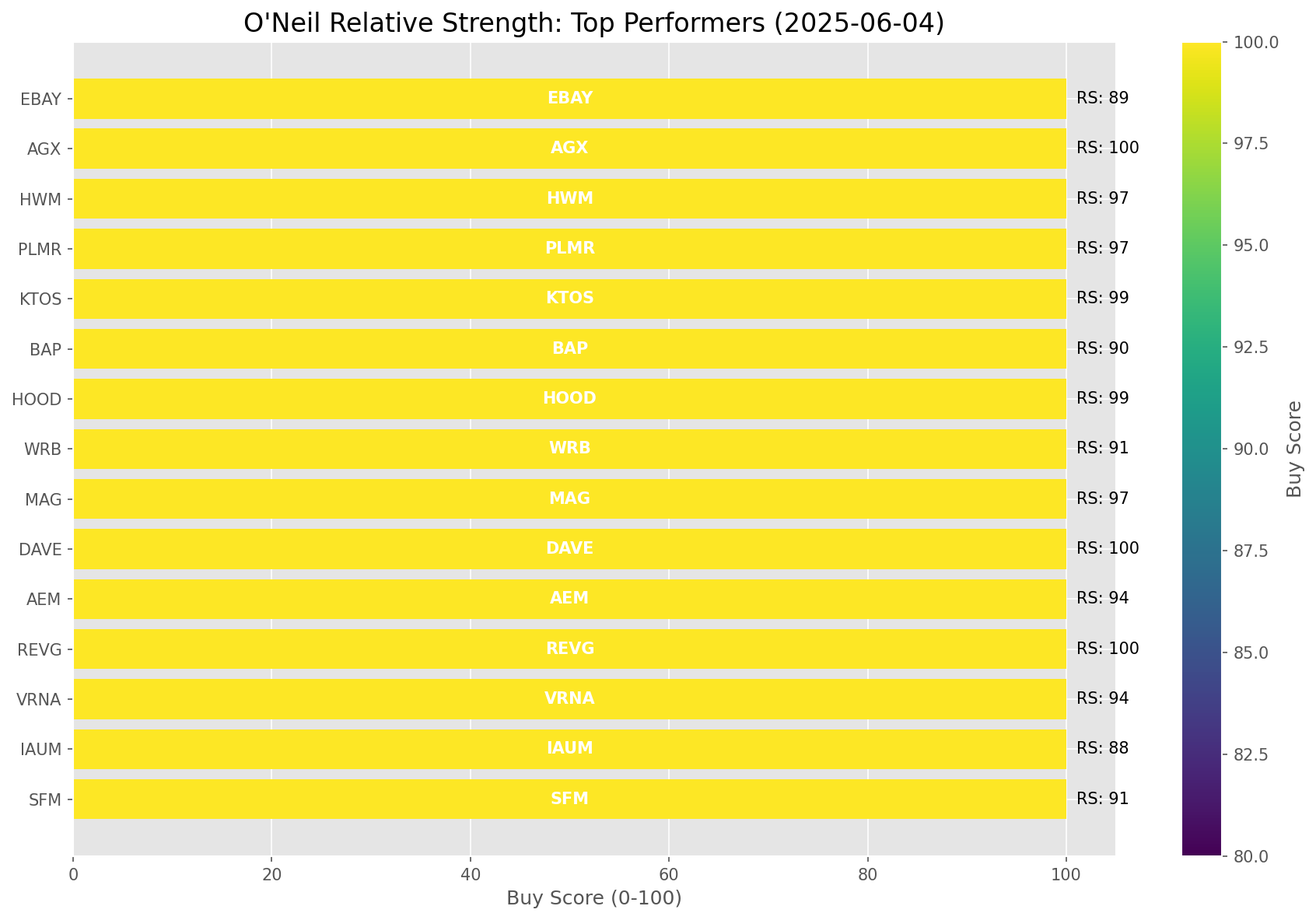
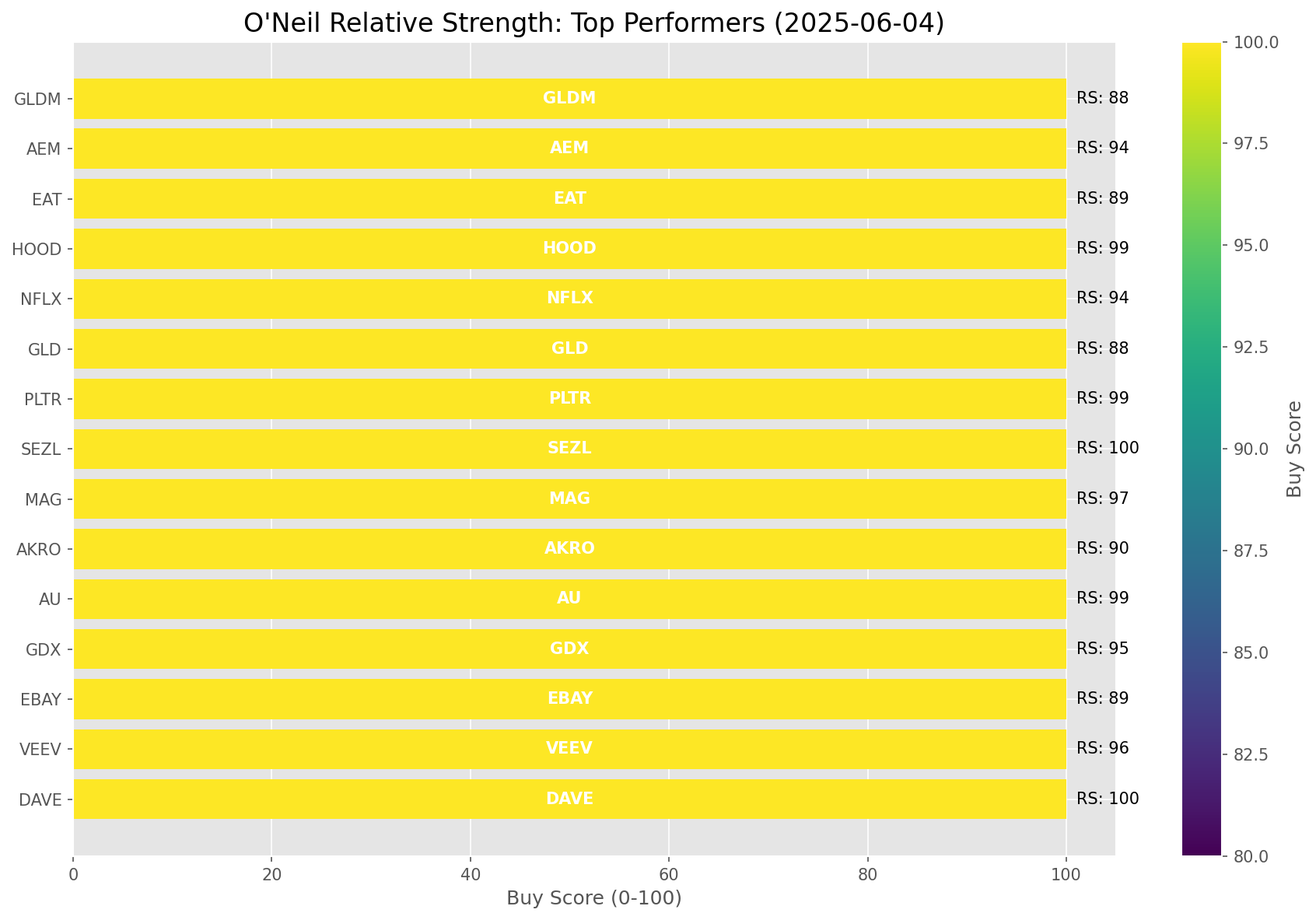
Add market report for 2025-06-04

diff --git a/oneil_relative_strength_report_2025-06-04.md b/oneil_relative_strength_report_2025-06-04.md
@@ -57,8 +57,8 @@ Based on William O'Neil's Relative Strength Methodology
 | [PAVE](https://www.tradingview.com/chart/?symbol=PAVE) | 88.5 | 77.0 | 7.82% | 10d ✓, 50d ✓, 200d ✓ | ↗ | Infrastructure |
 | [XLI](https://www.tradingview.com/chart/?symbol=XLI) | 88.5 | 77.0 | 7.45% | 10d ✓, 50d ✓, 200d ✓ | ↗ | Industrial |
 | [ARKK](https://www.tradingview.com/chart/?symbol=ARKK) | 86.5 | 73.0 | 6.00% | 10d ✓, 50d ✓, 200d ✓ | ↗ | Innovation |
-| [SLV](https://www.tradingview.com/chart/?symbol=SLV) | 85.5 | 71.0 | 5.27% | 10d ✓, 50d ✓, 200d ✓ | ↗ | Silver |
 | [AIQ](https://www.tradingview.com/chart/?symbol=AIQ) | 85.5 | 71.0 | 5.38% | 10d ✓, 50d ✓, 200d ✓ | ↗ | Artificial Intelligence & Technology |
+| [SLV](https://www.tradingview.com/chart/?symbol=SLV) | 85.5 | 71.0 | 5.27% | 10d ✓, 50d ✓, 200d ✓ | ↗ | Silver |
 | [IYZ](https://www.tradingview.com/chart/?symbol=IYZ) | 80.0 | 60.0 | 1.39% | 10d ✓, 50d ✓, 200d ✓ | ↗ | Telecommunications |
 | [XLY](https://www.tradingview.com/chart/?symbol=XLY) | 80.0 | 60.0 | 1.64% | 10d ✓, 50d ✓, 200d ✓ | ↗ | Consumer Discretionary |
 | [XLF](https://www.tradingview.com/chart/?symbol=XLF) | 79.5 | 59.0 | 1.16% | 10d ✓, 50d ✓, 200d ✓ | ↗ | Financial |
@@ -110,26 +110,26 @@ The following 82 stocks show exceptional relative strength:
 
 | RS Rating | Buy Score | Current Price | Chart | Name | Ticker |
 |-----------|-----------|---------------|-------|------|--------|
-| 100 | 100 | $42.94 | [Chart](https://www.tradingview.com/chart/?symbol=REVG) | REV Group, Inc. | REVG |
 | 100 | 100 | $207.05 | [Chart](https://www.tradingview.com/chart/?symbol=DAVE) | Dave Inc. Class A Common Stock | DAVE |
+| 100 | 100 | $119.79 | [Chart](https://www.tradingview.com/chart/?symbol=SEZL) | Sezzle Inc. Common Stock | SEZL |
+| 100 | 100 | $42.94 | [Chart](https://www.tradingview.com/chart/?symbol=REVG) | REV Group, Inc. | REVG |
 | 100 | 100 | $217.80 | [Chart](https://www.tradingview.com/chart/?symbol=AGX) | Argan, Inc | AGX |
 | 100 | 100 | $98.54 | [Chart](https://www.tradingview.com/chart/?symbol=RBRK) | Rubrik, Inc. | RBRK |
-| 100 | 100 | $119.79 | [Chart](https://www.tradingview.com/chart/?symbol=SEZL) | Sezzle Inc. Common Stock | SEZL |
 | 100 | 100 | $488.13 | [Chart](https://www.tradingview.com/chart/?symbol=GEV) | GE Vernova Inc. | GEV |
 | 100 | 100 | $345.64 | [Chart](https://www.tradingview.com/chart/?symbol=CVNA) | Carvana Co. | CVNA |
-| 99 | 100 | $72.27 | [Chart](https://www.tradingview.com/chart/?symbol=HOOD) | Robinhood Markets, Inc. Class A Common Stock | HOOD |
-| 99 | 100 | $40.10 | [Chart](https://www.tradingview.com/chart/?symbol=KTOS) | Kratos Defense & Security Solutions, Inc. | KTOS |
 | 99 | 100 | $46.13 | [Chart](https://www.tradingview.com/chart/?symbol=AU) | AngloGold Ashanti plc | AU |
 | 99 | 100 | $130.01 | [Chart](https://www.tradingview.com/chart/?symbol=PLTR) | Palantir Technologies Inc. Class A Common Stock | PLTR |
+| 99 | 100 | $72.27 | [Chart](https://www.tradingview.com/chart/?symbol=HOOD) | Robinhood Markets, Inc. Class A Common Stock | HOOD |
+| 99 | 100 | $40.10 | [Chart](https://www.tradingview.com/chart/?symbol=KTOS) | Kratos Defense & Security Solutions, Inc. | KTOS |
 | 99 | 100 | $91.07 | [Chart](https://www.tradingview.com/chart/?symbol=RBLX) | Roblox Corporation | RBLX |
 | 98 | 100 | $71.89 | [Chart](https://www.tradingview.com/chart/?symbol=ULS) | UL Solutions Inc. | ULS |
-| 98 | 100 | $24.44 | [Chart](https://www.tradingview.com/chart/?symbol=TFPM) | Triple Flag Precious Metals Corp. | TFPM |
 | 98 | 100 | $42.50 | [Chart](https://www.tradingview.com/chart/?symbol=FARO) | Faro Technologies Inc | FARO |
+| 98 | 100 | $24.44 | [Chart](https://www.tradingview.com/chart/?symbol=TFPM) | Triple Flag Precious Metals Corp. | TFPM |
 | 97 | 100 | $20.15 | [Chart](https://www.tradingview.com/chart/?symbol=MAG) | MAG Silver Corp. | MAG |
-| 97 | 100 | $171.79 | [Chart](https://www.tradingview.com/chart/?symbol=PLMR) | Palomar Holdings, Inc. Common stock | PLMR |
-| 97 | 100 | $173.94 | [Chart](https://www.tradingview.com/chart/?symbol=HWM) | Howmet Aerospace Inc. | HWM |
-| 97 | 100 | $119.90 | [Chart](https://www.tradingview.com/chart/?symbol=CLS) | Celestica, Inc. | CLS |
 | 97 | 100 | $69.23 | [Chart](https://www.tradingview.com/chart/?symbol=GDXJ) | VanEck Junior Gold Miners ETF | GDXJ |
+| 97 | 100 | $171.79 | [Chart](https://www.tradingview.com/chart/?symbol=PLMR) | Palomar Holdings, Inc. Common stock | PLMR |
+| 97 | 100 | $119.90 | [Chart](https://www.tradingview.com/chart/?symbol=CLS) | Celestica, Inc. | CLS |
+| 97 | 100 | $173.94 | [Chart](https://www.tradingview.com/chart/?symbol=HWM) | Howmet Aerospace Inc. | HWM |
 | 97 | 100 | $92.75 | [Chart](https://www.tradingview.com/chart/?symbol=WPM) | Wheaton Precious Metals Corp. Common Stock | WPM |
 | 97 | 100 | $416.52 | [Chart](https://www.tradingview.com/chart/?symbol=APP) | Applovin Corporation Class A Common Stock | APP |
 | 97 | 100 | $260.00 | [Chart](https://www.tradingview.com/chart/?symbol=TLN) | Talen Energy Corporation Common Stock | TLN |
@@ -140,41 +140,41 @@ The following 82 stocks show exceptional relative strength:
 | 96 | 100 | $35.63 | [Chart](https://www.tradingview.com/chart/?symbol=UTI) | Universal Technical Institute, Inc. | UTI |
 | 96 | 100 | $19.59 | [Chart](https://www.tradingview.com/chart/?symbol=MIR) | Mirion Technologies, Inc. | MIR |
 | 95 | 100 | $53.21 | [Chart](https://www.tradingview.com/chart/?symbol=GDX) | VanEck Gold Miners ETF | GDX |
-| 94 | 100 | $83.98 | [Chart](https://www.tradingview.com/chart/?symbol=VRNA) | Verona Pharma plc | VRNA |
+| 94 | 100 | $1239.66 | [Chart](https://www.tradingview.com/chart/?symbol=NFLX) | NetFlix Inc | NFLX |
 | 94 | 100 | $123.61 | [Chart](https://www.tradingview.com/chart/?symbol=AEM) | Agnico Eagle Mines Ltd. | AEM |
 | 94 | 100 | $27.56 | [Chart](https://www.tradingview.com/chart/?symbol=UVE) | UNIVERSAL INSURANCE HLDG, INC. | UVE |
+| 94 | 100 | $83.98 | [Chart](https://www.tradingview.com/chart/?symbol=VRNA) | Verona Pharma plc | VRNA |
 | 94 | 100 | $250.88 | [Chart](https://www.tradingview.com/chart/?symbol=GE) | GE Aerospace | GE |
-| 94 | 100 | $1239.66 | [Chart](https://www.tradingview.com/chart/?symbol=NFLX) | NetFlix Inc | NFLX |
 | 94 | 100 | $57.99 | [Chart](https://www.tradingview.com/chart/?symbol=SHLD) | Global X Defense Tech ETF | SHLD |
 | 93 | 100 | $30.26 | [Chart](https://www.tradingview.com/chart/?symbol=NTGR) | NETGEAR, Inc. | NTGR |
 | 92 | 100 | $154.07 | [Chart](https://www.tradingview.com/chart/?symbol=CAH) | Cardinal Health, Inc. | CAH |
 | 92 | 100 | $701.08 | [Chart](https://www.tradingview.com/chart/?symbol=SPOT) | Spotify Technology S.A. | SPOT |
 | 91 | 100 | $171.14 | [Chart](https://www.tradingview.com/chart/?symbol=SFM) | Sprouts Farmers Market, Inc. | SFM |
-| 91 | 100 | $74.04 | [Chart](https://www.tradingview.com/chart/?symbol=WRB) | W.R. Berkley Corporation | WRB |
 | 91 | 100 | $180.14 | [Chart](https://www.tradingview.com/chart/?symbol=ITA) | iShares U.S. Aerospace & Defense ETF | ITA |
+| 91 | 100 | $74.04 | [Chart](https://www.tradingview.com/chart/?symbol=WRB) | W.R. Berkley Corporation | WRB |
 | 91 | 100 | $180.66 | [Chart](https://www.tradingview.com/chart/?symbol=PM) | Philip Morris International Inc. | PM |
+| 90 | 100 | $52.99 | [Chart](https://www.tradingview.com/chart/?symbol=AKRO) | Akero Therapeutics, Inc. Common Stock | AKRO |
 | 90 | 100 | $213.51 | [Chart](https://www.tradingview.com/chart/?symbol=BAP) | Credicorp LTD | BAP |
 | 90 | 100 | $46.17 | [Chart](https://www.tradingview.com/chart/?symbol=BTI) | British American Tobacco p.l.c. American Depositary Shares, American Depositary Shares, each representing one Ordinary Share | BTI |
-| 90 | 100 | $52.99 | [Chart](https://www.tradingview.com/chart/?symbol=AKRO) | Akero Therapeutics, Inc. Common Stock | AKRO |
 | 89 | 100 | $77.10 | [Chart](https://www.tradingview.com/chart/?symbol=EBAY) | eBay Inc | EBAY |
 | 89 | 100 | $173.50 | [Chart](https://www.tradingview.com/chart/?symbol=EAT) | Brinker International, Inc. | EAT |
-| 88 | 100 | $33.65 | [Chart](https://www.tradingview.com/chart/?symbol=IAUM) | iShares Gold Trust Micro | IAUM |
-| 88 | 100 | $33.33 | [Chart](https://www.tradingview.com/chart/?symbol=AAAU) | Goldman Sachs Physical Gold ETF Shares | AAAU |
+| 88 | 100 | $310.90 | [Chart](https://www.tradingview.com/chart/?symbol=GLD) | SPDR Gold Trust, SPDR Gold Shares | GLD |
 | 88 | 100 | $66.82 | [Chart](https://www.tradingview.com/chart/?symbol=GLDM) | SPDR Gold MiniShares | GLDM |
 | 88 | 100 | $63.62 | [Chart](https://www.tradingview.com/chart/?symbol=IAU) | iShares Gold Trust | IAU |
+| 88 | 100 | $33.33 | [Chart](https://www.tradingview.com/chart/?symbol=AAAU) | Goldman Sachs Physical Gold ETF Shares | AAAU |
 | 88 | 100 | $32.18 | [Chart](https://www.tradingview.com/chart/?symbol=SGOL) | abrdn Physical Gold Shares ETF | SGOL |
-| 88 | 100 | $310.90 | [Chart](https://www.tradingview.com/chart/?symbol=GLD) | SPDR Gold Trust, SPDR Gold Shares | GLD |
+| 88 | 100 | $33.65 | [Chart](https://www.tradingview.com/chart/?symbol=IAUM) | iShares Gold Trust Micro | IAUM |
 | 89 | 99 | $64.81 | [Chart](https://www.tradingview.com/chart/?symbol=SLF) | Sun Life Financial Inc. | SLF |
 | 87 | 99 | $57.06 | [Chart](https://www.tradingview.com/chart/?symbol=CAKE) | Cheesecake Factory (The) | CAKE |
-| 86 | 99 | $25.72 | [Chart](https://www.tradingview.com/chart/?symbol=PHYS) | Sprott Physical Gold Trust | PHYS |
 | 86 | 99 | $220.23 | [Chart](https://www.tradingview.com/chart/?symbol=DASH) | DoorDash, Inc. Class A Common Stock | DASH |
+| 86 | 99 | $25.72 | [Chart](https://www.tradingview.com/chart/?symbol=PHYS) | Sprott Physical Gold Trust | PHYS |
 | 87 | 98 | $106.56 | [Chart](https://www.tradingview.com/chart/?symbol=DTM) | DT Midstream, Inc. | DTM |
 | 87 | 97 | $87.97 | [Chart](https://www.tradingview.com/chart/?symbol=SANM) | Sanmina  Corp | SANM |
 | 86 | 97 | $5557.00 | [Chart](https://www.tradingview.com/chart/?symbol=BKNG) | Booking Holdings Inc. Common Stock | BKNG |
 | 84 | 97 | $29.99 | [Chart](https://www.tradingview.com/chart/?symbol=CEF) | Sprott Physical Gold and Silver Trust | CEF |
 | 87 | 96 | $60.44 | [Chart](https://www.tradingview.com/chart/?symbol=UVV) | Universal Corporation | UVV |
-| 86 | 96 | $79.17 | [Chart](https://www.tradingview.com/chart/?symbol=BBCA) | JPMorgan BetaBuilders Canada ETF | BBCA |
 | 86 | 96 | $167.22 | [Chart](https://www.tradingview.com/chart/?symbol=NTRA) | Natera, Inc. Common Stock | NTRA |
+| 86 | 96 | $79.17 | [Chart](https://www.tradingview.com/chart/?symbol=BBCA) | JPMorgan BetaBuilders Canada ETF | BBCA |
 | 84 | 96 | $27.71 | [Chart](https://www.tradingview.com/chart/?symbol=IMAX) | Imax Corp | IMAX |
 | 83 | 96 | $240.89 | [Chart](https://www.tradingview.com/chart/?symbol=LNG) | Cheniere Energy Inc | LNG |
 | 82 | 96 | $104.32 | [Chart](https://www.tradingview.com/chart/?symbol=AXS) | Axis Capital Holders Limited | AXS |
@@ -187,10 +187,10 @@ The following 82 stocks show exceptional relative strength:
 | 85 | 94 | $47.76 | [Chart](https://www.tradingview.com/chart/?symbol=GH) | Guardant Health, Inc. Common Stock | GH |
 | 82 | 94 | $42.46 | [Chart](https://www.tradingview.com/chart/?symbol=EWG) | iShares MSCI Germany ETF | EWG |
 | 81 | 94 | $26.67 | [Chart](https://www.tradingview.com/chart/?symbol=SONY) | Sony Group Corporation American Depositary Shares (Each Representing One Share of Dollar Validated Common Stock) | SONY |
-| 83 | 93 | $51.35 | [Chart](https://www.tradingview.com/chart/?symbol=TRP) | TC Energy Corporation | TRP |
 | 83 | 93 | $85.16 | [Chart](https://www.tradingview.com/chart/?symbol=SEIC) | SEI Investments Co | SEIC |
-| 83 | 93 | $41.97 | [Chart](https://www.tradingview.com/chart/?symbol=ARKF) | ARK Fintech Innovation ETF | ARKF |
 | 83 | 93 | $29.20 | [Chart](https://www.tradingview.com/chart/?symbol=DBX) | Dropbox, Inc. Class A | DBX |
+| 83 | 93 | $41.97 | [Chart](https://www.tradingview.com/chart/?symbol=ARKF) | ARK Fintech Innovation ETF | ARKF |
+| 83 | 93 | $51.35 | [Chart](https://www.tradingview.com/chart/?symbol=TRP) | TC Energy Corporation | TRP |
 | 82 | 92 | $23.73 | [Chart](https://www.tradingview.com/chart/?symbol=KAR) | OPENLANE, Inc | KAR |
 
 ---
@@ -202,63 +202,63 @@ The following 179 stocks show deteriorating relative strength:
 
 | RS Rating | Sell Score | Current Price | Chart | Name | Ticker |
 |-----------|------------|---------------|-------|------|--------|
-| 1 | 100 | $10.05 | [Chart](https://www.tradingview.com/chart/?symbol=WNC) | Wabash National Corp. | WNC |
 | 1 | 100 | $39.54 | [Chart](https://www.tradingview.com/chart/?symbol=SRPT) | Sarepta Therapeutics,, Inc. Common Stock | SRPT |
 | 1 | 100 | $12.16 | [Chart](https://www.tradingview.com/chart/?symbol=NRIX) | Nurix Therapeutics, Inc. Common stock | NRIX |
-| 1 | 100 | $10.72 | [Chart](https://www.tradingview.com/chart/?symbol=XNCR) | Xencor, Inc. | XNCR |
 | 1 | 100 | $32.94 | [Chart](https://www.tradingview.com/chart/?symbol=TECS) | Direxion Daily Technology Bear 3x Shares | TECS |
+| 1 | 100 | $10.05 | [Chart](https://www.tradingview.com/chart/?symbol=WNC) | Wabash National Corp. | WNC |
+| 1 | 100 | $10.72 | [Chart](https://www.tradingview.com/chart/?symbol=XNCR) | Xencor, Inc. | XNCR |
 | 1 | 100 | $13.10 | [Chart](https://www.tradingview.com/chart/?symbol=IART) | Integra LifeSciences Holdings | IART |
 | 1 | 100 | $12.55 | [Chart](https://www.tradingview.com/chart/?symbol=VFC) | V.F. Corporation | VFC |
 | 2 | 100 | $17.15 | [Chart](https://www.tradingview.com/chart/?symbol=BEAM) | Beam Therapeutics Inc. Common Stock | BEAM |
 | 2 | 100 | $17.04 | [Chart](https://www.tradingview.com/chart/?symbol=NVDS) | Investment Managers Series Trust II Tradr 1.5X Short NVDA Daily ETF | NVDS |
 | 3 | 100 | $10.16 | [Chart](https://www.tradingview.com/chart/?symbol=SONO) | Sonos, Inc. Common Stock | SONO |
 | 3 | 100 | $10.22 | [Chart](https://www.tradingview.com/chart/?symbol=PRTA) | Prothena Corporation plc Ordinary Shares | PRTA |
-| 3 | 100 | $10.31 | [Chart](https://www.tradingview.com/chart/?symbol=VREX) | Varex Imaging Corporation Common Stock | VREX |
 | 3 | 100 | $51.29 | [Chart](https://www.tradingview.com/chart/?symbol=LGIH) | LGI Homes, Inc. | LGIH |
+| 3 | 100 | $10.31 | [Chart](https://www.tradingview.com/chart/?symbol=VREX) | Varex Imaging Corporation Common Stock | VREX |
 | 3 | 100 | $13.65 | [Chart](https://www.tradingview.com/chart/?symbol=DQ) | Daqo New Energy Corp. American Depositary Shares (each representing 5 Ordinary Shares) | DQ |
 | 3 | 100 | $21.96 | [Chart](https://www.tradingview.com/chart/?symbol=THS) | Treehouse Foods, Inc. | THS |
 | 3 | 100 | $10.17 | [Chart](https://www.tradingview.com/chart/?symbol=PACS) | PACS Group, Inc. | PACS |
 | 3 | 100 | $44.12 | [Chart](https://www.tradingview.com/chart/?symbol=LINE) | Lineage, Inc. Common Stock | LINE |
-| 4 | 100 | $132.03 | [Chart](https://www.tradingview.com/chart/?symbol=KRYS) | Krystal Biotech, Inc. Common Stock | KRYS |
-| 4 | 100 | $20.40 | [Chart](https://www.tradingview.com/chart/?symbol=AMRK) | A-Mark Precious Metals, Inc. | AMRK |
-| 4 | 100 | $32.41 | [Chart](https://www.tradingview.com/chart/?symbol=CYTK) | Cytokinetics Inc. | CYTK |
-| 4 | 100 | $20.00 | [Chart](https://www.tradingview.com/chart/?symbol=HI) | Hillenbrand, Inc. | HI |
-| 4 | 100 | $10.25 | [Chart](https://www.tradingview.com/chart/?symbol=MBC) | MasterBrand, Inc. | MBC |
 | 4 | 100 | $17.14 | [Chart](https://www.tradingview.com/chart/?symbol=AMTB) | Amerant Bancorp Inc. | AMTB |
-| 5 | 100 | $15.42 | [Chart](https://www.tradingview.com/chart/?symbol=PENN) | PENN Entertainment, Inc. Common Stock | PENN |
-| 5 | 100 | $56.24 | [Chart](https://www.tradingview.com/chart/?symbol=SPB) | Spectrum Brands Holdings, Inc. | SPB |
+| 4 | 100 | $20.00 | [Chart](https://www.tradingview.com/chart/?symbol=HI) | Hillenbrand, Inc. | HI |
+| 4 | 100 | $20.40 | [Chart](https://www.tradingview.com/chart/?symbol=AMRK) | A-Mark Precious Metals, Inc. | AMRK |
+| 4 | 100 | $132.03 | [Chart](https://www.tradingview.com/chart/?symbol=KRYS) | Krystal Biotech, Inc. Common Stock | KRYS |
+| 4 | 100 | $10.25 | [Chart](https://www.tradingview.com/chart/?symbol=MBC) | MasterBrand, Inc. | MBC |
+| 4 | 100 | $32.41 | [Chart](https://www.tradingview.com/chart/?symbol=CYTK) | Cytokinetics Inc. | CYTK |
 | 5 | 100 | $14.73 | [Chart](https://www.tradingview.com/chart/?symbol=INMD) | InMode Ltd. Ordinary Shares | INMD |
-| 5 | 100 | $12.05 | [Chart](https://www.tradingview.com/chart/?symbol=LBRT) | Liberty Energy Inc. | LBRT |
-| 5 | 100 | $20.05 | [Chart](https://www.tradingview.com/chart/?symbol=AMN) | AMN Healthcare Services | AMN |
 | 5 | 100 | $10.27 | [Chart](https://www.tradingview.com/chart/?symbol=CWK) | Cushman & Wakefield plc Ordinary Shares | CWK |
+| 5 | 100 | $56.24 | [Chart](https://www.tradingview.com/chart/?symbol=SPB) | Spectrum Brands Holdings, Inc. | SPB |
+| 5 | 100 | $12.05 | [Chart](https://www.tradingview.com/chart/?symbol=LBRT) | Liberty Energy Inc. | LBRT |
 | 5 | 100 | $47.64 | [Chart](https://www.tradingview.com/chart/?symbol=LSCC) | Lattice Semiconductor Corp | LSCC |
+| 5 | 100 | $15.42 | [Chart](https://www.tradingview.com/chart/?symbol=PENN) | PENN Entertainment, Inc. Common Stock | PENN |
+| 5 | 100 | $20.05 | [Chart](https://www.tradingview.com/chart/?symbol=AMN) | AMN Healthcare Services | AMN |
 | 5 | 100 | $31.36 | [Chart](https://www.tradingview.com/chart/?symbol=MBIN) | Merchants Bancorp Common Stock | MBIN |
-| 6 | 100 | $55.84 | [Chart](https://www.tradingview.com/chart/?symbol=AMWD) | American Woodmark Corp | AMWD |
 | 6 | 100 | $137.91 | [Chart](https://www.tradingview.com/chart/?symbol=INSP) | Inspire Medical Systems, Inc. | INSP |
+| 6 | 100 | $55.84 | [Chart](https://www.tradingview.com/chart/?symbol=AMWD) | American Woodmark Corp | AMWD |
 | 6 | 100 | $56.11 | [Chart](https://www.tradingview.com/chart/?symbol=BMRN) | BioMarin Pharmaceuticals Inc | BMRN |
 | 6 | 100 | $53.12 | [Chart](https://www.tradingview.com/chart/?symbol=SLVM) | Sylvamo Corporation | SLVM |
-| 7 | 100 | $26.34 | [Chart](https://www.tradingview.com/chart/?symbol=WMG) | Warner Music Group Corp. Class A Common Stock | WMG |
 | 7 | 100 | $17.96 | [Chart](https://www.tradingview.com/chart/?symbol=DNTH) | Dianthus Therapeutics, Inc. Common Stock | DNTH |
-| 8 | 100 | $23.36 | [Chart](https://www.tradingview.com/chart/?symbol=RPD) | Rapid7, Inc. Common Stock | RPD |
+| 7 | 100 | $26.34 | [Chart](https://www.tradingview.com/chart/?symbol=WMG) | Warner Music Group Corp. Class A Common Stock | WMG |
 | 8 | 100 | $67.80 | [Chart](https://www.tradingview.com/chart/?symbol=WD) | Walker & Dunlop, Inc. | WD |
 | 8 | 100 | $52.84 | [Chart](https://www.tradingview.com/chart/?symbol=ASGN) | ASGN Incorporated | ASGN |
 | 8 | 100 | $11.09 | [Chart](https://www.tradingview.com/chart/?symbol=CLB) | Core Laboratories Inc. | CLB |
+| 8 | 100 | $23.36 | [Chart](https://www.tradingview.com/chart/?symbol=RPD) | Rapid7, Inc. Common Stock | RPD |
 | 8 | 100 | $83.06 | [Chart](https://www.tradingview.com/chart/?symbol=KSPI) | Joint Stock Company Kaspi.kz American Depository Shares | KSPI |
-| 8 | 100 | $59.70 | [Chart](https://www.tradingview.com/chart/?symbol=ALB) | Albemarle Corporation | ALB |
 | 8 | 100 | $44.61 | [Chart](https://www.tradingview.com/chart/?symbol=RHI) | Robert Half Inc. | RHI |
-| 9 | 100 | $10.92 | [Chart](https://www.tradingview.com/chart/?symbol=FBRT) | Franklin BSP Realty Trust, Inc. | FBRT |
+| 8 | 100 | $59.70 | [Chart](https://www.tradingview.com/chart/?symbol=ALB) | Albemarle Corporation | ALB |
 | 9 | 100 | $38.97 | [Chart](https://www.tradingview.com/chart/?symbol=APOG) | Apogee Enterprises Inc | APOG |
+| 9 | 100 | $10.92 | [Chart](https://www.tradingview.com/chart/?symbol=FBRT) | Franklin BSP Realty Trust, Inc. | FBRT |
 | 9 | 100 | $20.01 | [Chart](https://www.tradingview.com/chart/?symbol=HAL) | Halliburton Company | HAL |
 | 9 | 100 | $15.29 | [Chart](https://www.tradingview.com/chart/?symbol=SAFE) | Safehold Inc. | SAFE |
-| 10 | 100 | $34.47 | [Chart](https://www.tradingview.com/chart/?symbol=ANDE) | Andersons Inc/The | ANDE |
-| 10 | 100 | $20.19 | [Chart](https://www.tradingview.com/chart/?symbol=BITI) | ProShares Short Bitcoin ETF | BITI |
 | 10 | 100 | $10.38 | [Chart](https://www.tradingview.com/chart/?symbol=SD) | SandRidge Energy, Inc. | SD |
+| 10 | 100 | $20.19 | [Chart](https://www.tradingview.com/chart/?symbol=BITI) | ProShares Short Bitcoin ETF | BITI |
+| 10 | 100 | $34.47 | [Chart](https://www.tradingview.com/chart/?symbol=ANDE) | Andersons Inc/The | ANDE |
 | 10 | 100 | $98.55 | [Chart](https://www.tradingview.com/chart/?symbol=UPS) | United Parcel Service, Inc. Class B | UPS |
 | 10 | 100 | $17.04 | [Chart](https://www.tradingview.com/chart/?symbol=MLKN) | MillerKnoll, Inc. Common Stock | MLKN |
 | 11 | 100 | $15.45 | [Chart](https://www.tradingview.com/chart/?symbol=DXC) | DXC Technology Company | DXC |
 | 11 | 100 | $49.82 | [Chart](https://www.tradingview.com/chart/?symbol=ASH) | Ashland Inc. | ASH |
-| 12 | 100 | $17.61 | [Chart](https://www.tradingview.com/chart/?symbol=SCHL) | Scholastic Corp | SCHL |
 | 12 | 100 | $14.24 | [Chart](https://www.tradingview.com/chart/?symbol=HR) | Healthcare Realty Trust Incorporated | HR |
+| 12 | 100 | $17.61 | [Chart](https://www.tradingview.com/chart/?symbol=SCHL) | Scholastic Corp | SCHL |
 | 13 | 100 | $27.03 | [Chart](https://www.tradingview.com/chart/?symbol=WERN) | Werner Enterprises Inc | WERN |
 | 13 | 100 | $53.03 | [Chart](https://www.tradingview.com/chart/?symbol=KBH) | KB Home | KBH |
 | 13 | 100 | $25.56 | [Chart](https://www.tradingview.com/chart/?symbol=TRN) | Trinity Industries, Inc. | TRN |
@@ -301,8 +301,8 @@ The following 179 stocks show deteriorating relative strength:
 | 9 | 92 | $38.66 | [Chart](https://www.tradingview.com/chart/?symbol=PCH) | PotlatchDeltic Corporation Common Stock | PCH |
 | 11 | 92 | $112.73 | [Chart](https://www.tradingview.com/chart/?symbol=BLDR) | Builders FirstSource, Inc. | BLDR |
 | 14 | 92 | $24.44 | [Chart](https://www.tradingview.com/chart/?symbol=CHX) | ChampionX Corporation | CHX |
-| 16 | 91 | $47.88 | [Chart](https://www.tradingview.com/chart/?symbol=ERX) | Direxion Daily Energy Bull 2X Shares | ERX |
 | 16 | 91 | $25.06 | [Chart](https://www.tradingview.com/chart/?symbol=HASI) | HA Sustainable Infrastructure Capital, Inc. | HASI |
+| 16 | 91 | $47.88 | [Chart](https://www.tradingview.com/chart/?symbol=ERX) | Direxion Daily Energy Bull 2X Shares | ERX |
 | 17 | 91 | $75.74 | [Chart](https://www.tradingview.com/chart/?symbol=CNS) | Cohen & Steers Inc. | CNS |
 | 18 | 91 | $65.16 | [Chart](https://www.tradingview.com/chart/?symbol=ZROZ) | PIMCO 25+ Year Zero Coupon U.S. Treasury Index Exchange-Traded Fund | ZROZ |
 | 19 | 91 | $54.61 | [Chart](https://www.tradingview.com/chart/?symbol=GIS) | General Mills, Inc. | GIS |
@@ -312,12 +312,12 @@ The following 179 stocks show deteriorating relative strength:
 | 22 | 89 | $12.58 | [Chart](https://www.tradingview.com/chart/?symbol=ZUMZ) | Zumiez Inc. | ZUMZ |
 | 22 | 89 | $161.48 | [Chart](https://www.tradingview.com/chart/?symbol=HSY) | The Hershey Company | HSY |
 | 23 | 89 | $30.60 | [Chart](https://www.tradingview.com/chart/?symbol=DAR) | DARLING INGREDIENTS INC. | DAR |
-| 24 | 89 | $211.43 | [Chart](https://www.tradingview.com/chart/?symbol=WST) | West Pharmaceutical Services, Inc. | WST |
 | 24 | 89 | $193.08 | [Chart](https://www.tradingview.com/chart/?symbol=DHR) | Danaher Corporation | DHR |
+| 24 | 89 | $211.43 | [Chart](https://www.tradingview.com/chart/?symbol=WST) | West Pharmaceutical Services, Inc. | WST |
 | 24 | 89 | $41.91 | [Chart](https://www.tradingview.com/chart/?symbol=OXY) | Occidental Petroleum Corporation | OXY |
 | 14 | 88 | $63.36 | [Chart](https://www.tradingview.com/chart/?symbol=MAS) | Masco Corporation | MAS |
-| 16 | 88 | $76.34 | [Chart](https://www.tradingview.com/chart/?symbol=PFG) | Principal Financial Group, Inc. | PFG |
 | 16 | 88 | $11.97 | [Chart](https://www.tradingview.com/chart/?symbol=FFIC) | Flushing Financial Corp | FFIC |
+| 16 | 88 | $76.34 | [Chart](https://www.tradingview.com/chart/?symbol=PFG) | Principal Financial Group, Inc. | PFG |
 | 22 | 88 | $19.58 | [Chart](https://www.tradingview.com/chart/?symbol=FOR) | Forestar Group Inc. | FOR |
 | 23 | 88 | $122.75 | [Chart](https://www.tradingview.com/chart/?symbol=TFX) | Teleflex Incorporated | TFX |
 | 14 | 87 | $13.33 | [Chart](https://www.tradingview.com/chart/?symbol=TZA) | Direxion Daily Small Cap Bear 3x Shares | TZA |
@@ -326,17 +326,17 @@ The following 179 stocks show deteriorating relative strength:
 | 18 | 87 | $81.72 | [Chart](https://www.tradingview.com/chart/?symbol=WHR) | Whirlpool Corp. | WHR |
 | 21 | 87 | $22.06 | [Chart](https://www.tradingview.com/chart/?symbol=DFH) | Dream Finders Homes, Inc. | DFH |
 | 24 | 87 | $10.68 | [Chart](https://www.tradingview.com/chart/?symbol=NMFC) | NEW MOUNTAIN FINANCE CORPORATION | NMFC |
-| 19 | 86 | $36.26 | [Chart](https://www.tradingview.com/chart/?symbol=NBHC) | NATIONAL BANK HOLDINGS CORP. | NBHC |
 | 19 | 86 | $10.24 | [Chart](https://www.tradingview.com/chart/?symbol=PFLT) | PennantPark Floating Rate Capital Ltd. | PFLT |
+| 19 | 86 | $36.26 | [Chart](https://www.tradingview.com/chart/?symbol=NBHC) | NATIONAL BANK HOLDINGS CORP. | NBHC |
 | 20 | 86 | $92.59 | [Chart](https://www.tradingview.com/chart/?symbol=PCAR) | Paccar Inc | PCAR |
 | 29 | 86 | $74.63 | [Chart](https://www.tradingview.com/chart/?symbol=WFG) | West Fraser Timber Co. Ltd | WFG |
 | 16 | 85 | $60.12 | [Chart](https://www.tradingview.com/chart/?symbol=STC) | Stewart Information Services Corporation | STC |
 | 20 | 85 | $16.71 | [Chart](https://www.tradingview.com/chart/?symbol=UMH) | UMH Properties, Inc. | UMH |
 | 21 | 85 | $75.11 | [Chart](https://www.tradingview.com/chart/?symbol=CBT) | Cabot Corporation | CBT |
 | 25 | 85 | $25.06 | [Chart](https://www.tradingview.com/chart/?symbol=ASTH) | Astrana Health Inc. Common Stock | ASTH |
-| 30 | 85 | $46.22 | [Chart](https://www.tradingview.com/chart/?symbol=EDU) | New Oriental Education and Technology Group, Inc. American Depositary Shares (each representing ten (10) Common Shares) | EDU |
 | 21 | 84 | $445.85 | [Chart](https://www.tradingview.com/chart/?symbol=VRTX) | Vertex Pharmaceuticals Inc | VRTX |
 | 29 | 84 | $46.92 | [Chart](https://www.tradingview.com/chart/?symbol=TWM) | ProShares UltraShort Russell2000 | TWM |
+| 30 | 84 | $46.22 | [Chart](https://www.tradingview.com/chart/?symbol=EDU) | New Oriental Education and Technology Group, Inc. American Depositary Shares (each representing ten (10) Common Shares) | EDU |
 | 23 | 83 | $36.37 | [Chart](https://www.tradingview.com/chart/?symbol=STBA) | S&T Bancorp Inc | STBA |
 | 27 | 83 | $10.35 | [Chart](https://www.tradingview.com/chart/?symbol=MUC) | BLACKROCK MUNIHOLDINGS CALIFORNIA QUALITY FUND, INC | MUC |
 | 19 | 82 | $49.34 | [Chart](https://www.tradingview.com/chart/?symbol=TSCO) | Tractor Supply Co | TSCO |
@@ -359,8 +359,8 @@ The following 179 stocks show deteriorating relative strength:
 | 26 | 76 | $153.22 | [Chart](https://www.tradingview.com/chart/?symbol=JNJ) | Johnson & Johnson | JNJ |
 | 27 | 76 | $29.45 | [Chart](https://www.tradingview.com/chart/?symbol=HTH) | HILLTOP HOLDINGS INC. | HTH |
 | 30 | 76 | $10.88 | [Chart](https://www.tradingview.com/chart/?symbol=LBTYA) | Liberty Global Ltd. Class A Common Shares | LBTYA |
-| 34 | 76 | $83.32 | [Chart](https://www.tradingview.com/chart/?symbol=BCO) | The Brink's Company | BCO |
 | 34 | 76 | $30.45 | [Chart](https://www.tradingview.com/chart/?symbol=TPH) | Tri Pointe Homes, Inc. | TPH |
+| 34 | 76 | $83.32 | [Chart](https://www.tradingview.com/chart/?symbol=BCO) | The Brink's Company | BCO |
 | 29 | 75 | $11.86 | [Chart](https://www.tradingview.com/chart/?symbol=NZF) | Nuveen Municipal Credit Income Fund | NZF |
 | 38 | 75 | $85.95 | [Chart](https://www.tradingview.com/chart/?symbol=COP) | ConocoPhillips | COP |
 | 29 | 74 | $103.78 | [Chart](https://www.tradingview.com/chart/?symbol=PRU) | Prudential Financial, Inc. | PRU |
@@ -375,8 +375,8 @@ The following 179 stocks show deteriorating relative strength:
 | 39 | 71 | $102.30 | [Chart](https://www.tradingview.com/chart/?symbol=XOM) | Exxon Mobil Corporation | XOM |
 | 32 | 70 | $13.81 | [Chart](https://www.tradingview.com/chart/?symbol=DOLE) | Dole plc | DOLE |
 | 37 | 70 | $68.08 | [Chart](https://www.tradingview.com/chart/?symbol=BLV) | Vanguard Long-Term Bond ETF | BLV |
-| 38 | 70 | $34.44 | [Chart](https://www.tradingview.com/chart/?symbol=CMCSA) | Comcast Corp | CMCSA |
 | 36 | 69 | $55.92 | [Chart](https://www.tradingview.com/chart/?symbol=O) | Realty Income Corporation | O |
+| 38 | 69 | $34.44 | [Chart](https://www.tradingview.com/chart/?symbol=CMCSA) | Comcast Corp | CMCSA |
 | 34 | 68 | $81.95 | [Chart](https://www.tradingview.com/chart/?symbol=XLE) | Energy Select Sector SPDR Fund | XLE |
 | 37 | 67 | $56.61 | [Chart](https://www.tradingview.com/chart/?symbol=TREX) | Trex Company, Inc. | TREX |
 | 36 | 65 | $21.88 | [Chart](https://www.tradingview.com/chart/?symbol=DJT) | Trump Media & Technology Group Corp. Common Stock | DJT |
